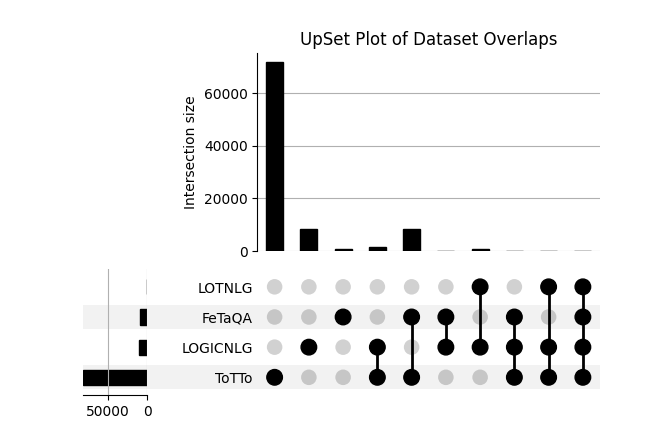
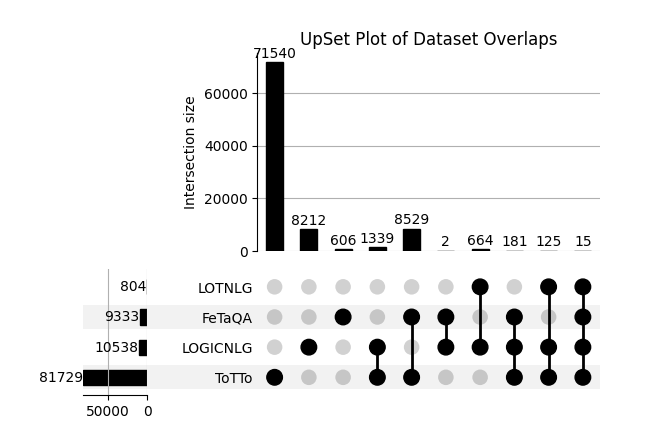
p

diff --git a/Dataset/LOGICNLG & ToTTo & QTSumm/4Overlapped.py b/Dataset/LOGICNLG & ToTTo & QTSumm/4Overlapped.py
@@ -62,7 +62,8 @@ with open(report_file, mode='w', encoding='utf-8') as mdfile:
 
 # Prepare and plot the data using upsetplot
 upset_data = from_contents(dataset_sets)
-plot(upset_data, orientation='horizontal')
+plot(upset_data, orientation='horizontal', show_counts='%d')
+
 plt.title('UpSet Plot of Dataset Overlaps')
 plt.savefig('upset_plot.png')
 plt.show()
